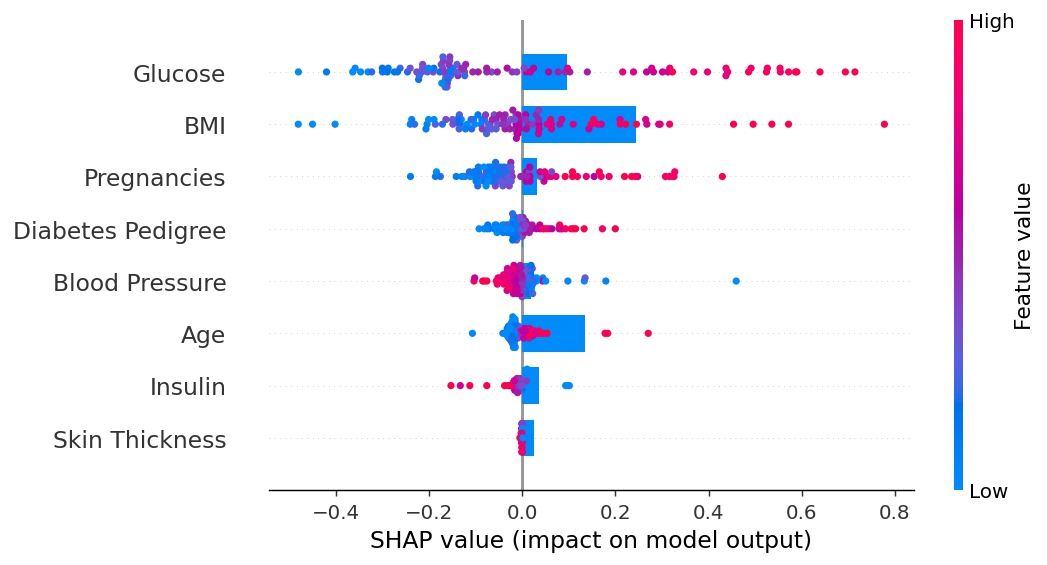
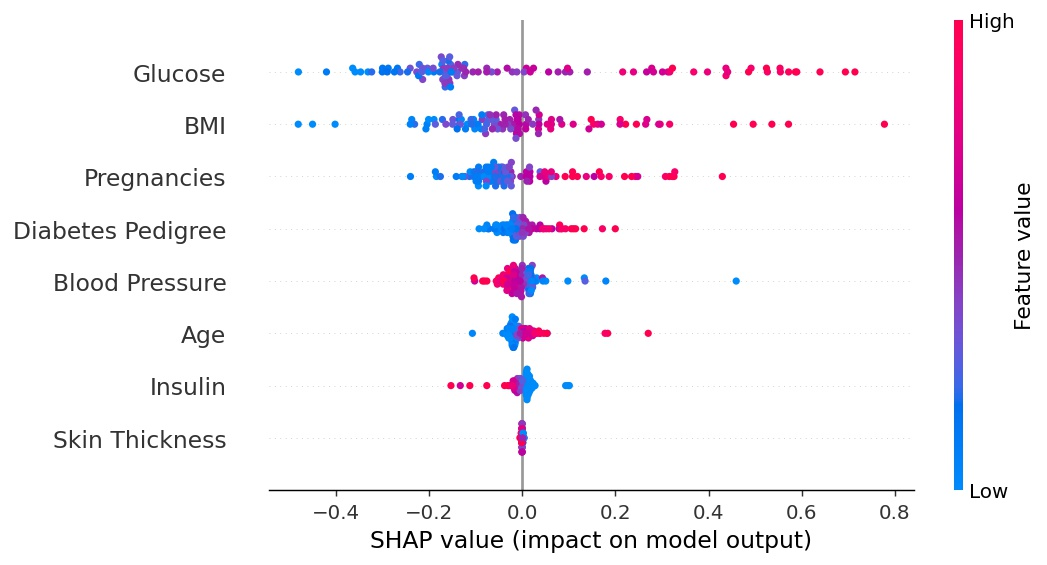
Thesis Commit 61

Changed region(s): [[0.3973, 0.0903, 0.6113, 0.8124], [0.3668, 0.0903, 0.4585, 0.1504], [0.5501, 0.4814, 0.5807, 0.5115]]

diff --git a/mlpart/templates/mlpart/indexDiabetes.html b/mlpart/templates/mlpart/indexDiabetes.html
@@ -35,8 +35,8 @@
                 <div style="padding: 25px 0px 10px!important" class="d-flex justify-content-end">
                     <div class="col-md">
                         <h5>Want to redirect home?</h5>
-                        <p><a style="width: 205px !important;" class="btn btn-secondary text-info"
-                              href="/" role="button">Go Home »</a></p>
+                        <p><a style="width: 215px !important;" class="btn btn-secondary text-info"
+                              href="/mlpart/" role="button">Go Home »</a></p>
                     </div>
                 </div>
 
@@ -53,12 +53,12 @@
                 <div class="row justify-content-start">
 
                     <div class="col-md-2 ">Pregnancies:</div>
-                    <input type="number" step="0.01" placeholder="38" required="required" name="Val1"
+                    <input type="number"  placeholder="2" required="required" name="Val1"
                            value={{temp.Pregnancies}}><br><br>
 
 
                     <div class="col-md-3 ">Glucose:</div>
-                    <input type="number" step="0.01" placeholder="38" required="required" name="Val2"
+                    <input type="number"  placeholder="137" required="required" name="Val2"
                            value={{temp.Glucose}}><br><br>
 
                 </div>
@@ -67,12 +67,12 @@
                 <div class="row justify-content-start">
 
                     <div class="col-md-2 ">BloodPressure:</div>
-                    <input type="number" step="0.01" placeholder="38" required="required" name="Val3"
+                    <input type="number"  placeholder="72" required="required" name="Val3"
                            value={{temp.BloodPressure}}><br><br>
 
 
                     <div class="col-md-3 ">SkinThickness:</div>
-                    <input type="number" step="0.01" placeholder="38" required="required" name="Val4"
+                    <input type="number"  placeholder="29" required="required" name="Val4"
                            value={{temp.SkinThickness}}><br><br>
 
                 </div>
@@ -82,12 +82,12 @@
                 <div class="row justify-content-start">
 
                     <div class="col-md-2 ">Insulin:</div>
-                    <input type="number" step="0.01" placeholder="38" required="required" name="Val5"
+                    <input type="number"  placeholder="168" required="required" name="Val5"
                            value={{temp.Insulin}}><br><br>
 
 
                     <div class="col-md-3 ">BMI:</div>
-                    <input type="number" step="0.01" placeholder="38" required="required" name="Val6"
+                    <input type="number" step="0.01" placeholder="28.6" required="required" name="Val6"
                            value={{temp.BMI}}><br><br>
 
                 </div>
@@ -97,11 +97,11 @@
 
 
                     <div class="col-md-2 ">Diabetes Pedigree Function:</div>
-                    <input type="number" step="0.01" placeholder="38" required="required" name="Val7"
+                    <input type="number" step="0.01" placeholder="0.35" required="required" name="Val7"
                            value={{temp.DiabetesPedigreeFunction}}><br><br>
 
                     <div class="col-md-3 ">Age:</div>
-                    <input type="number" step="0.01" placeholder="38" required="required" name="Val8"
+                    <input type="number"  placeholder="38" required="required" name="Val8"
                            value={{temp.Age}}><br><br>
 
 
@@ -110,7 +110,7 @@
 
             </div>
 
-            <div class="container">
+            <div class="container" title="Expect a 15 second delay">
 
                 <div class="d-flex justify-content-center">
                     <input class="btn btn-primary btn-lg" style="width: 350px !important;" type="submit" value="Submit">

diff --git a/mlpart/templates/mlpart/resultsDiabetes.html b/mlpart/templates/mlpart/resultsDiabetes.html
@@ -15,10 +15,12 @@
         .bs-example {
             margin: 20px;
         }
+
         .imgbox {
             display: grid;
             height: 100%;
         }
+
         .center-fit {
             max-width: 100%;
             max-height: 100vh;
@@ -33,7 +35,7 @@
 
 <main role="main">
 
-    <div style="padding: 40px 0px 5px!important" class="jumbotron">
+    <div style="padding: 50px 0px 5px!important" class="jumbotron">
         <div class="container">
             <div class="row justify-content-start">
 
@@ -41,7 +43,7 @@
                     {% if messages %}
                     <ul class="messages">
                         {% for message in messages %}
-                        <h5 class="display-4" {% if message.tags %} class="{ message.tags }}" {% endif %}>
+                        <h5 class="text-danger display-4" {% if message.tags %} class="{ message.tags }}" {% endif %}>
                             {{message}}
                         </h5>
 
@@ -50,11 +52,11 @@
                     {% endif %}
                 </div>
 
-                <div style="padding: 25px 0px 10px!important" class="d-flex justify-content-end">
+                <div style="padding: 15px 0px 10px!important" class="d-flex justify-content-end">
                     <div class="col-md">
                         <h5>Want to make another diabetes prediction?</h5>
-                        <p><a style="width: 205px !important;" class="btn btn-secondary text-info"
-                              href="/" role="button">Go Home »</a></p>
+                        <p><a style="width: 390px !important;" class="btn btn-secondary text-info"
+                              href="/" role="button">Go Ahead »</a></p>
                     </div>
                 </div>
 
@@ -69,7 +71,7 @@
             <div class="row justify-content-start">
                 <div class="container" style="align-content: center">
                     herewvdvbadvbadvbadvbravbrabveravrsevbervbaerukvbeavaeruvbaruevuaevbeu
-                    <img src="{% static 'mlpart/DPtestdata.jpeg' %}"/>
+                    <img src="{% static 'mlpart/SPtestdata.jpeg' %}"/>
                 </div>
 
                 <br>
@@ -83,18 +85,13 @@
                 <br>
                 <br>
 
-<!--                <div class="container">uvrareufvreauvukervbrekvsrkivribvrsivsrivsyi:-->
-<!--                    <img  src="{% static 'mlpart/FPtestdata.svg' %}"/>-->
-<!--                </div>-->
+                <div class="container">uvrareufvreauvukervbrekvsrkivribvrsivsrivsyi:
+                    <img src="{% static 'mlpart/DPINSULINtestdata.jpeg' %}"/>
+                </div>
 
-
-                <!--                <img src="{% static 'mlpart/SPtestdata.svg' %}"/>-->
-                <!--                <br>-->
-                <!--                <br>-->
-                <!--                <br>-->
-                <!--                </div>-->
-                <!--                <img src="{% static 'mlpart/FPtestdata.svg' %}"/>-->
-                <!--                </div>-->
+                <br>
+                <br>
+                <br>
 
 
             </div>

diff --git a/mlpart/views.py b/mlpart/views.py
@@ -305,26 +305,44 @@ def DiabetesModel(request):
 
         print(sampleDataFeatures)
         print(trainData[0, :])
+
+
         # Summaryplot kai dependence plot me ta test Data
-        ex = shap.KernelExplainer(diabeteseModelInsideDjango.predict, testData)
-        shap_values = ex.shap_values(testData)
+        # ex = shap.KernelExplainer(diabeteseModelInsideDjango.predict, testData)
+        # shap_values = ex.shap_values(testData)
+        #
+        # fig = shap.summary_plot(shap_values, testData, plot_type="bar",
+        #                         feature_names=['Pregnancies', 'Glucose', 'Blood Pressure', 'Skin Thickness', 'Insulin',
+        #                                        'BMI', 'Diabetes Pedigree', 'Age'], show=False, sort=False)
+        # plt.savefig("mlpart/static/mlpart/SPbartestdata.jpeg", format='jpeg', dpi=130, bbox_inches='tight')
+        #
+        #
+        #
+        # fig = shap.summary_plot(shap_values, testData, show=False, plot_type='dot',
+        #                         feature_names=['Pregnancies', 'Glucose', 'Blood Pressure', 'Skin Thickness', 'Insulin',
+        #                                        'BMI', 'Diabetes Pedigree', 'Age'])
+        # plt.savefig("mlpart/static/mlpart/SPtestdata.jpeg", format='jpeg', dpi=130, bbox_inches='tight')
+        #
+        #
+        #
+        # fig = shap.dependence_plot("Insulin", shap_values, testData, show=False, feature_names=['Pregnancies', 'Glucose', 'Blood Pressure', 'Skin Thickness', 'Insulin',
+        #                                        'BMI', 'Diabetes Pedigree', 'Age'])
+        #
+        # plt.savefig("mlpart/static/mlpart/DPINSULINtestdata.jpeg", format='jpeg', dpi=130, bbox_inches='tight')
+        #
+        #
+        #
+        # # #Force Plots gia thn 14 timh twn test Data
+        # ex = shap.KernelExplainer(diabeteseModelInsideDjango.predict, testData)
+        # shap_values = ex.shap_values(testData[14, :])
+        # shap.force_plot(ex.expected_value, shap_values, testData[14, :], matplotlib=True, show=False,
+        #                 feature_names=['Pregnancies', 'Glucose', 'Blood Pressure', 'Skin Thickness', 'Insulin',
+        #                                'BMI', 'Diabetes Pedigree', 'Age'])
+        # plt.savefig("mlpart/static/mlpart/FPtestdata.jpeg", format='jpeg', dpi=850, bbox_inches='tight')
 
-        fig = shap.summary_plot(shap_values, testData, plot_type="bar",
-                                feature_names=['Pregnancies', 'Glucose', 'Blood Pressure', 'Skin Thickness', 'Insulin',
-                                               'BMI', 'Diabetes Pedigree', 'Age'], show=False, sort=False)
-        shap.initjs()
-        plt.savefig("mlpart/static/mlpart/SPbartestdata.jpeg", format='jpeg', dpi=130, bbox_inches='tight')
 
-        fig = shap.summary_plot(shap_values, testData, show=False, plot_type='dot',
-                                feature_names=['Pregnancies', 'Glucose', 'Blood Pressure', 'Skin Thickness', 'Insulin',
-                                               'BMI', 'Diabetes Pedigree', 'Age'])
-        shap.initjs()
-        plt.savefig("mlpart/static/mlpart/SPtestdata.jpeg", format='jpeg', dpi=130, bbox_inches='tight')
 
-        fig = shap.dependence_plot("Insulin", shap_values, testData, show=False, feature_names=['Pregnancies', 'Glucose', 'Blood Pressure', 'Skin Thickness', 'Insulin',
-                                               'BMI', 'Diabetes Pedigree', 'Age'])
-        shap.initjs()
-        plt.savefig("mlpart/static/mlpart/DPtestdata.jpeg", format='jpeg', dpi=130, bbox_inches='tight')
+
 
         # # # Summaryplot kai dependence mlpart/static/mlpartplot me ta input Data tou xrhsth
         # #
@@ -340,19 +358,6 @@ def DiabetesModel(request):
         # # # plt.savefig("mlpart/static/mlpart/DPinputdata.svg", format='svg', dpi=150, bbox_inches='tight')
         #
         # #Force Plots gia thn prwth timh twn test Data kai toy Input toy xrhsth
-        shap.initjs()
-        ex = shap.KernelExplainer(diabeteseModelInsideDjango.predict, testData)
-        shap_values = ex.shap_values(testData[14, :])
-        shap.force_plot(ex.expected_value, shap_values, testData[14, :], matplotlib=True, show=False,feature_names=['Pregnancies', 'Glucose', 'Blood Pressure', 'Skin Thickness', 'Insulin',
-                                               'BMI', 'Diabetes Pedigree', 'Age'])
-        plt.savefig("mlpart/static/mlpart/FPtestdata.jpeg", format='jpeg', dpi=850, bbox_inches='tight')
-
-        # shap.initjs()
-        # ex = shap.KernelExplainer(diabeteseModelInsideDjango.predict, sampleDataFeatures)
-        # shap_values = ex.shap_values(sampleDataFeatures[0, :])
-        # shap.force_plot(ex.expected_value, shap_values, sampleDataFeatures[0, :], matplotlib=True, show=False)
-        # # plt.savefig("gg1233.svg",  format='svg', dpi=150, bbox_inches='tight')
-        # plt.savefig("mlpart/static/mlpart/FPinputdata.svg", format='svg', dpi=30, bbox_inches='tight')
 
     return render(request, 'mlpart/resultsDiabetes.html')
 
